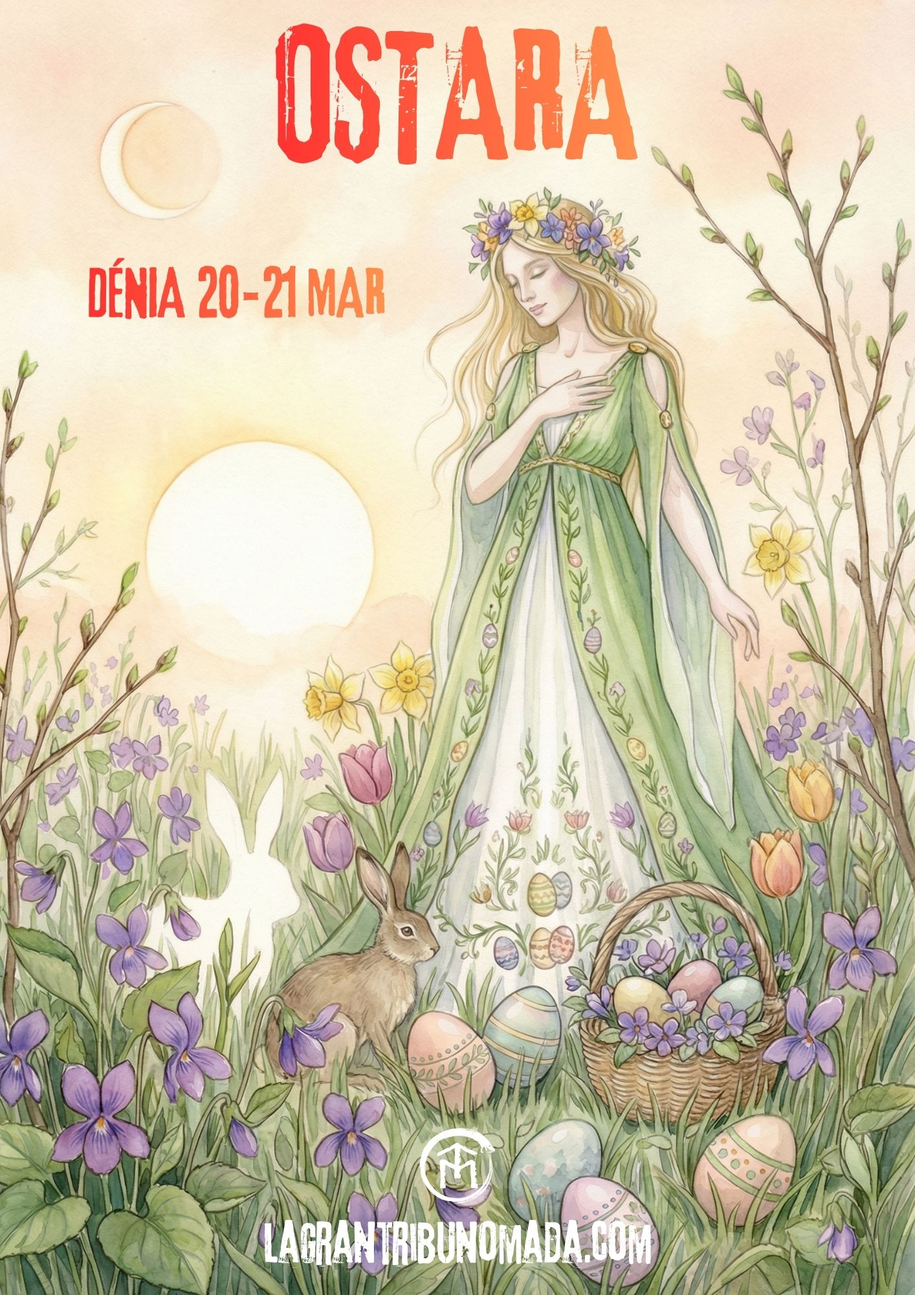
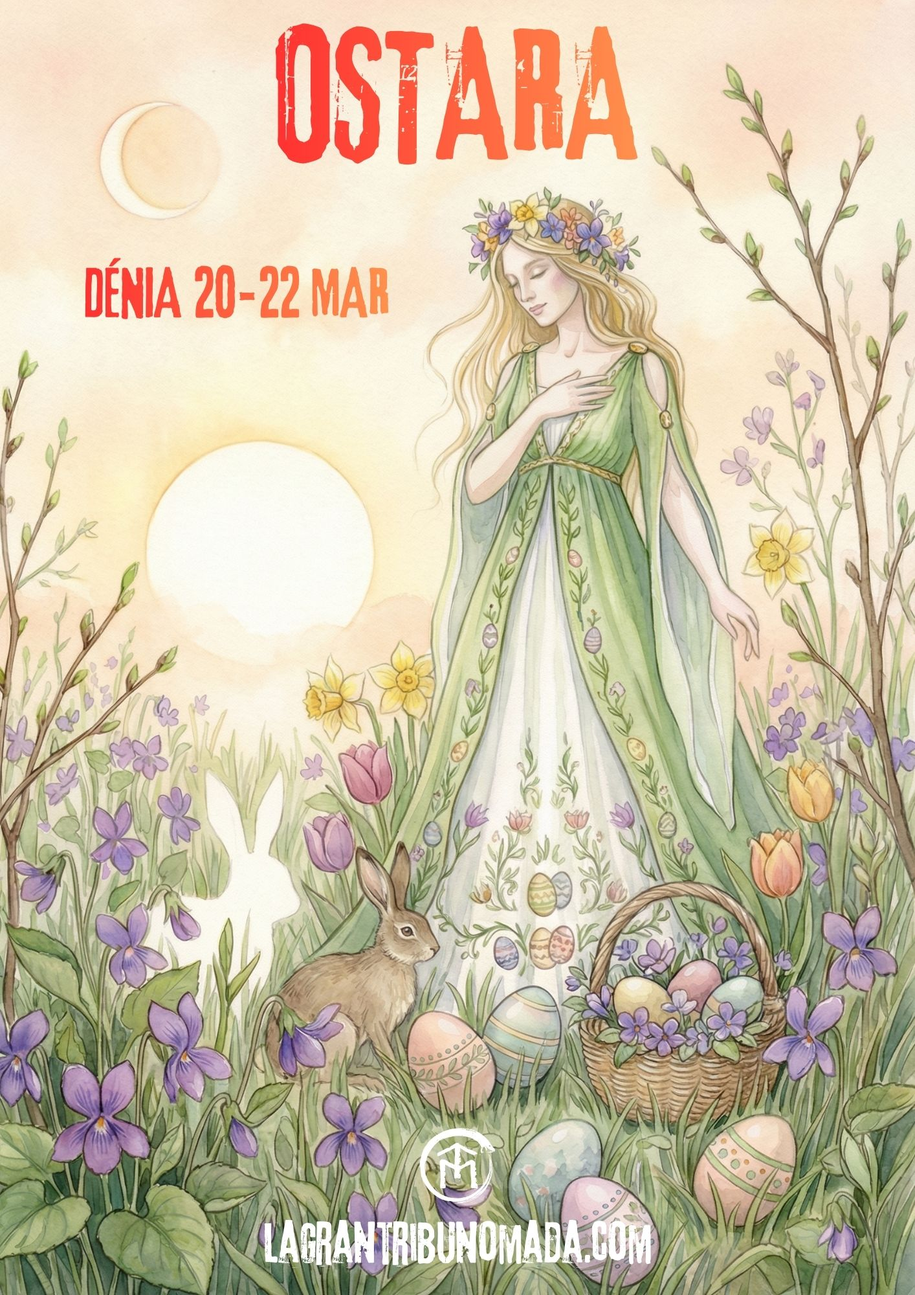
Update: 2026-02-16 17:27:36

Changed region(s): [[0.0934, 0.186, 0.4356, 0.248]]

diff --git a/content/event/2026-03-20-ostara.es.md b/content/event/2026-03-20-ostara.es.md
@@ -6,7 +6,7 @@ img: /u/carteles/2026-03-20-ostara.jpg
 seo:
   noindex: y
 date: 2026-03-20 00:00:00
-end: 2026-03-21 00:00:00
+end: 2026-03-22 00:00:00
 address:
   name: Rancho Pura Vida
   street: ''
